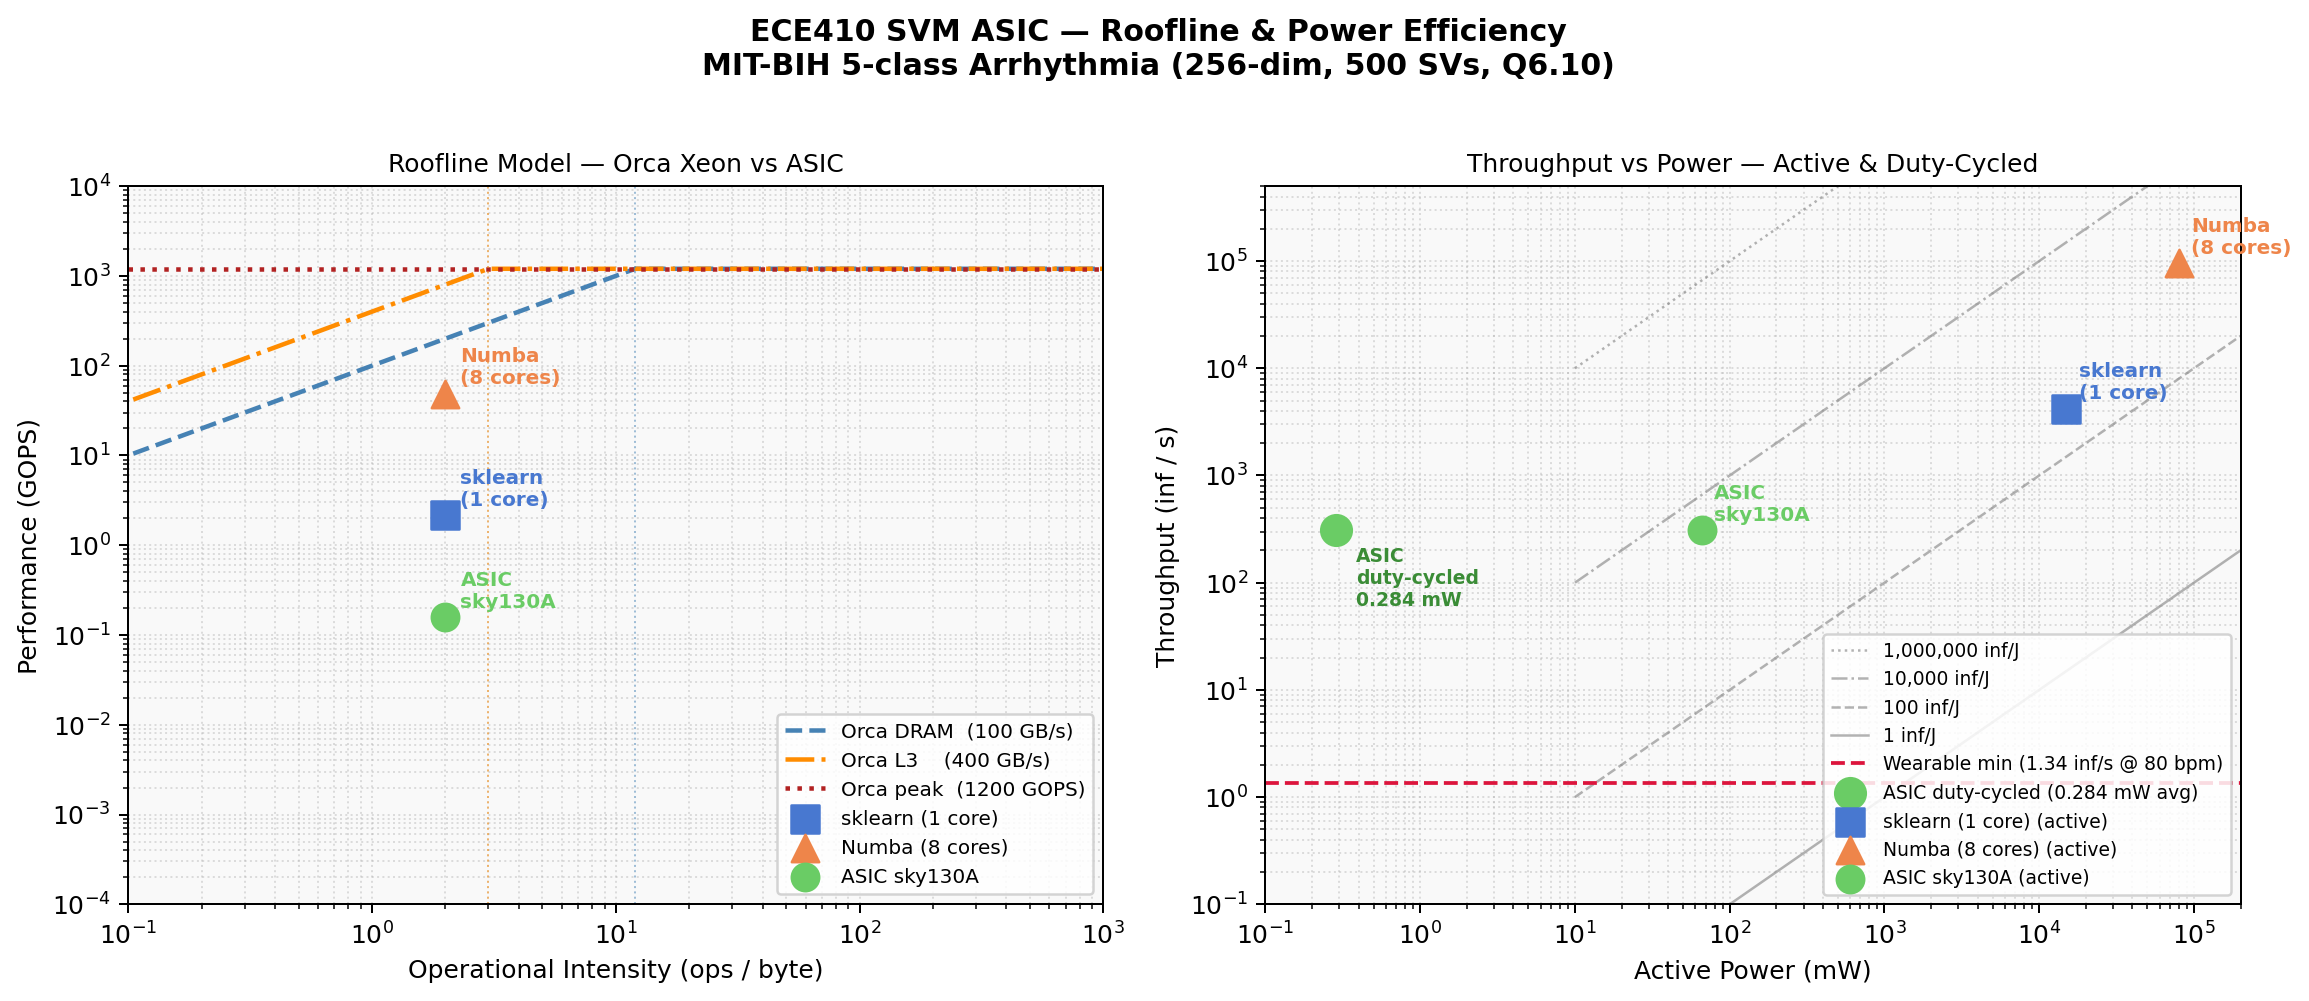
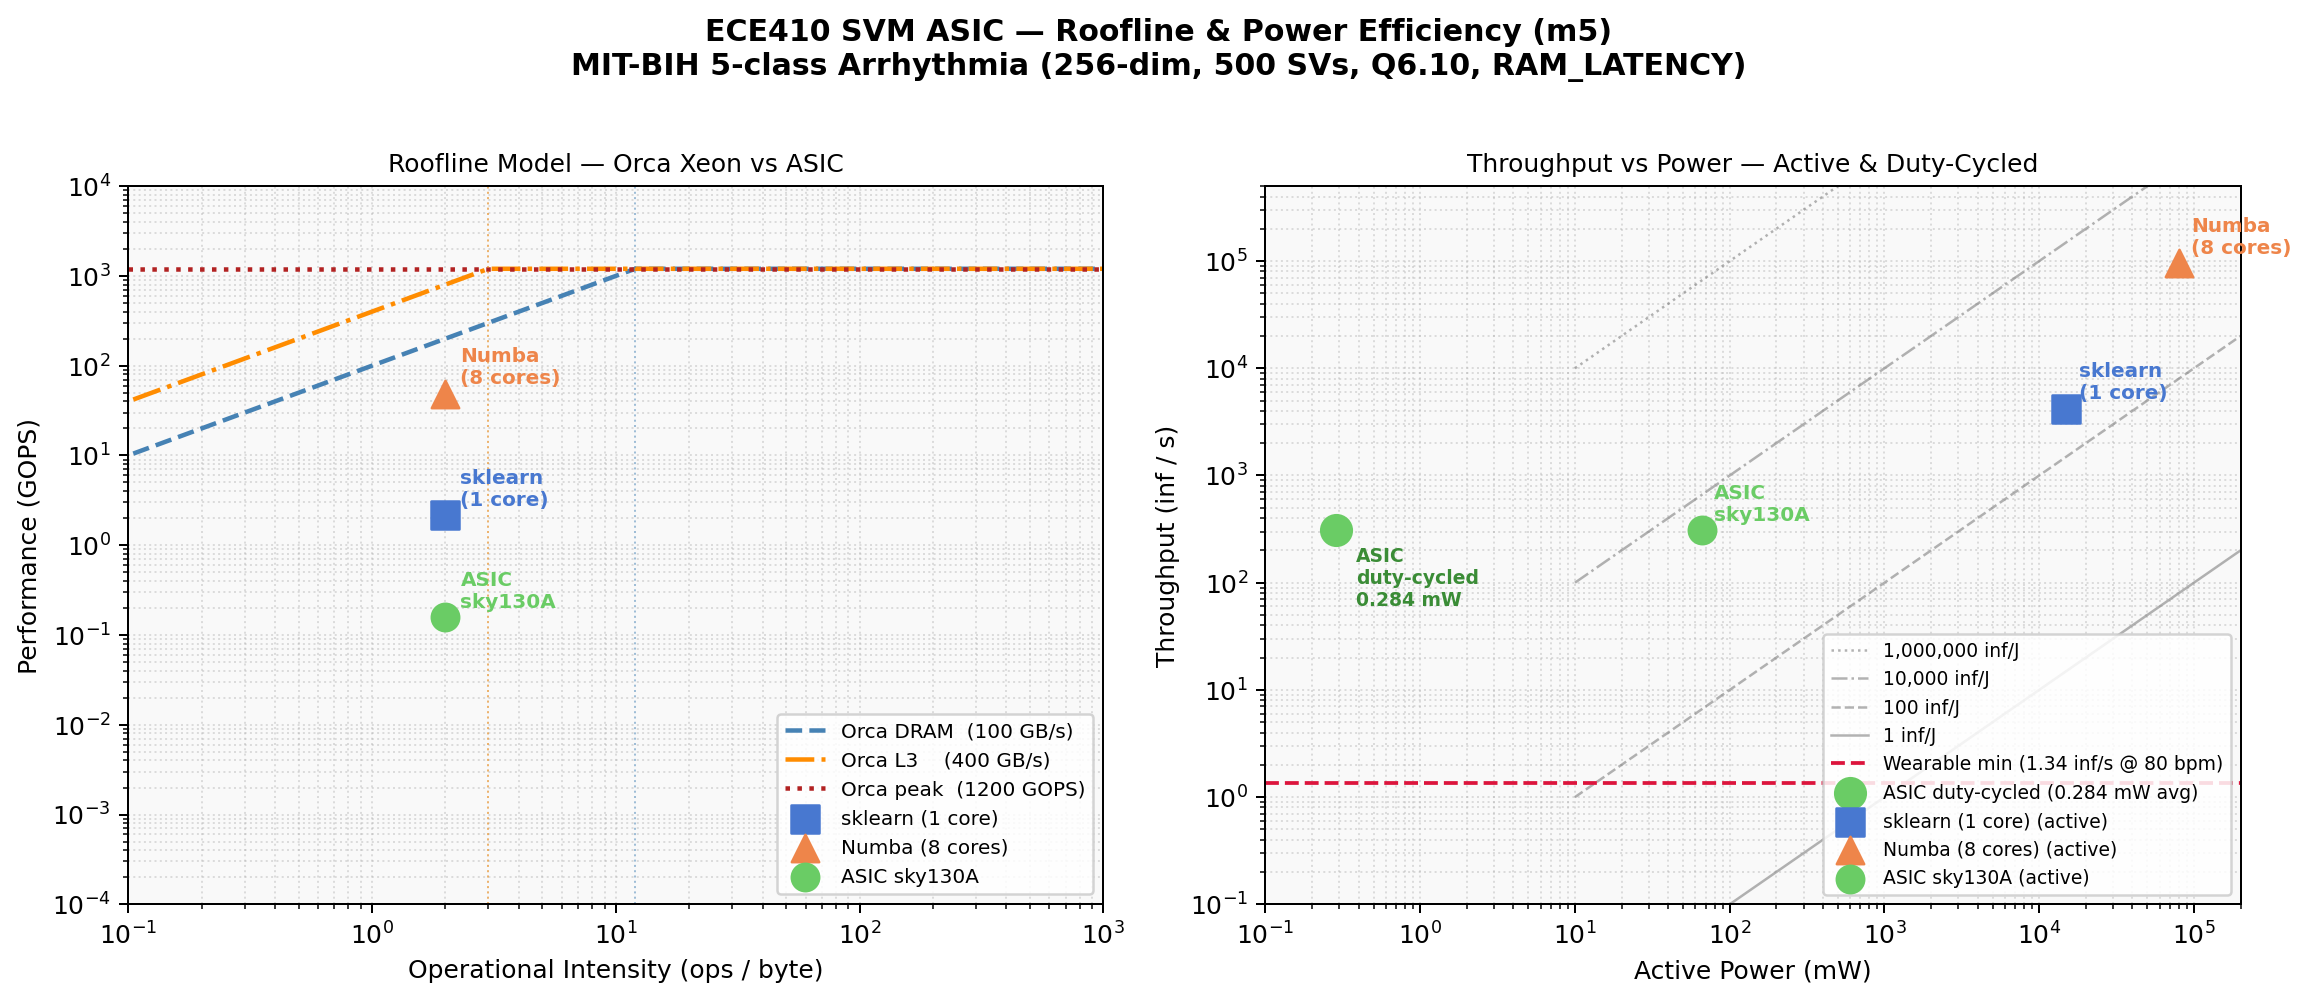
Add m5-specific roofline script and PNG with m5 title
roofline_final.py: copy of m4 script with m5 title and RAM_LATENCY subtitle
roofline_final.png: regenerated with updated title

Changed region(s): [[0.2495, 0.0, 0.7484, 0.0929]]

diff --git a/project/m5/bench/roofline_final.py b/project/m5/bench/roofline_final.py
@@ -1,0 +1,128 @@
+"""
+roofline_final.py — ECE410 SVM ASIC (m5)
+Dual-panel figure:
+  Left:  Traditional roofline (Orca Xeon DRAM/L3/compute ceilings)
+  Right: Throughput vs active power with iso-efficiency lines
+"""
+import numpy as np
+import matplotlib
+matplotlib.use("Agg")
+import matplotlib.pyplot as plt
+import matplotlib.ticker as ticker
+
+# ── Data ────────────────────────────────────────────────────────────────────
+
+implementations = {
+    "sklearn\n(1 core)":      dict(ops_b=2.0, gops=2.15,    mw=15_000,  inf_s=4_200,  color="#4878d0", marker="s"),
+    "Numba\n(8 cores)":       dict(ops_b=2.0, gops=48.6,    mw=80_000,  inf_s=95_000, color="#ee854a", marker="^"),
+    "ASIC\nsky130A":          dict(ops_b=2.0, gops=0.1582,  mw=66,      inf_s=309,    color="#6acc65", marker="o"),
+}
+
+# Orca Xeon platform ceilings
+DRAM_BW_GBs   = 100    # GB/s  (Orca dual-channel DDR4)
+L3_BW_GBs     = 400    # GB/s  (L3 effective streaming BW)
+PEAK_GOPS     = 1200   # GOPS  (Orca 8-core AVX-512 peak, ~150 GOPS/core)
+
+# Wearable classification requirement
+WEARABLE_INF_S = 1.34  # inf/s at 80 bpm
+
+# ── Figure ──────────────────────────────────────────────────────────────────
+fig, axes = plt.subplots(1, 2, figsize=(13, 5.5))
+fig.suptitle("ECE410 SVM ASIC — Roofline & Power Efficiency (m5)\n"
+             "MIT-BIH 5-class Arrhythmia (256-dim, 500 SVs, Q6.10, RAM_LATENCY)",
+             fontsize=12, fontweight="bold", y=1.01)
+
+# ╔══════════════════════════════════╗
+# ║  LEFT PANEL — Roofline           ║
+# ╚══════════════════════════════════╝
+ax = axes[0]
+
+oi = np.logspace(-2, 4, 400)   # operational intensity (ops/byte)
+
+# Memory ceiling lines
+dram_ridge  = PEAK_GOPS / DRAM_BW_GBs
+l3_ridge    = PEAK_GOPS / L3_BW_GBs
+
+dram_roof = np.minimum(DRAM_BW_GBs * oi, PEAK_GOPS)
+l3_roof   = np.minimum(L3_BW_GBs   * oi, PEAK_GOPS)
+
+ax.loglog(oi, dram_roof, color="steelblue",   lw=1.8, ls="--",  label=f"Orca DRAM  ({DRAM_BW_GBs} GB/s)")
+ax.loglog(oi, l3_roof,   color="darkorange",  lw=1.8, ls="-.",  label=f"Orca L3    ({L3_BW_GBs} GB/s)")
+ax.axhline(PEAK_GOPS,    color="firebrick",   lw=1.8, ls=":",   label=f"Orca peak  ({PEAK_GOPS} GOPS)")
+
+# Ridge points (vertical dotted lines)
+for ridge, bw_label, col in [(dram_ridge, "DRAM ridge", "steelblue"),
+                               (l3_ridge,  "L3 ridge",   "darkorange")]:
+    ax.axvline(ridge, color=col, lw=0.8, ls=":", alpha=0.5)
+
+# Implementation points
+for label, d in implementations.items():
+    ax.scatter(d["ops_b"], d["gops"],
+               color=d["color"], marker=d["marker"],
+               s=120, zorder=5, label=label.replace("\n", " "))
+    ax.annotate(label,
+                xy=(d["ops_b"], d["gops"]),
+                xytext=(6, 4), textcoords="offset points",
+                fontsize=8, color=d["color"], fontweight="bold")
+
+ax.set_xlabel("Operational Intensity (ops / byte)", fontsize=10)
+ax.set_ylabel("Performance (GOPS)", fontsize=10)
+ax.set_title("Roofline Model — Orca Xeon vs ASIC", fontsize=10)
+ax.set_xlim(0.1, 1000)
+ax.set_ylim(1e-4, 1e4)
+ax.legend(loc="lower right", fontsize=8, framealpha=0.85)
+ax.grid(True, which="both", ls=":", alpha=0.4)
+ax.set_facecolor("#f9f9f9")
+
+# ╔══════════════════════════════════╗
+# ║  RIGHT PANEL — Power Efficiency  ║
+# ╚══════════════════════════════════╝
+ax2 = axes[1]
+
+# Iso-efficiency lines (inf/J = throughput / power)
+power_range_mw = np.logspace(1, 8, 400)   # 10 mW → 100 W
+for eff, ls_style in [(1e6, ":"), (1e4, "-."), (1e2, "--"), (1e0, "-")]:
+    inf_per_J = eff
+    y_vals = inf_per_J * (power_range_mw * 1e-3)    # power in W
+    label = f"{eff:,.0f} inf/J" if eff >= 1 else f"{eff:.1f} inf/J"
+    ax2.loglog(power_range_mw, y_vals, color="gray", lw=1.0, ls=ls_style,
+               alpha=0.6, label=label)
+
+# Wearable requirement line
+ax2.axhline(WEARABLE_INF_S, color="crimson", lw=1.5, ls="--",
+            label=f"Wearable min ({WEARABLE_INF_S} inf/s @ 80 bpm)")
+
+# Duty-cycled ASIC average power point
+asic_avg_mw  = 0.284
+asic_inf_s   = 309
+ax2.scatter(asic_avg_mw, asic_inf_s, color="#6acc65", marker="o", s=150,
+            zorder=6, label="ASIC duty-cycled (0.284 mW avg)")
+ax2.annotate("ASIC\nduty-cycled\n0.284 mW",
+             xy=(asic_avg_mw, asic_inf_s),
+             xytext=(8, -30), textcoords="offset points",
+             fontsize=7.5, color="#3a8c36", fontweight="bold")
+
+# Active power implementation points
+for label, d in implementations.items():
+    ax2.scatter(d["mw"], d["inf_s"],
+                color=d["color"], marker=d["marker"],
+                s=120, zorder=5, label=label.replace("\n", " ") + " (active)")
+    ax2.annotate(label,
+                 xy=(d["mw"], d["inf_s"]),
+                 xytext=(5, 4), textcoords="offset points",
+                 fontsize=8, color=d["color"], fontweight="bold")
+
+ax2.set_xlabel("Active Power (mW)", fontsize=10)
+ax2.set_ylabel("Throughput (inf / s)", fontsize=10)
+ax2.set_title("Throughput vs Power — Active & Duty-Cycled", fontsize=10)
+ax2.set_xlim(0.1, 2e5)
+ax2.set_ylim(0.1, 5e5)
+ax2.legend(loc="lower right", fontsize=7.5, framealpha=0.85, ncol=1)
+ax2.grid(True, which="both", ls=":", alpha=0.4)
+ax2.set_facecolor("#f9f9f9")
+
+# ── Save ────────────────────────────────────────────────────────────────────
+plt.tight_layout()
+out = "roofline_final.png"
+plt.savefig(out, dpi=180, bbox_inches="tight")
+print(f"Saved {out}")